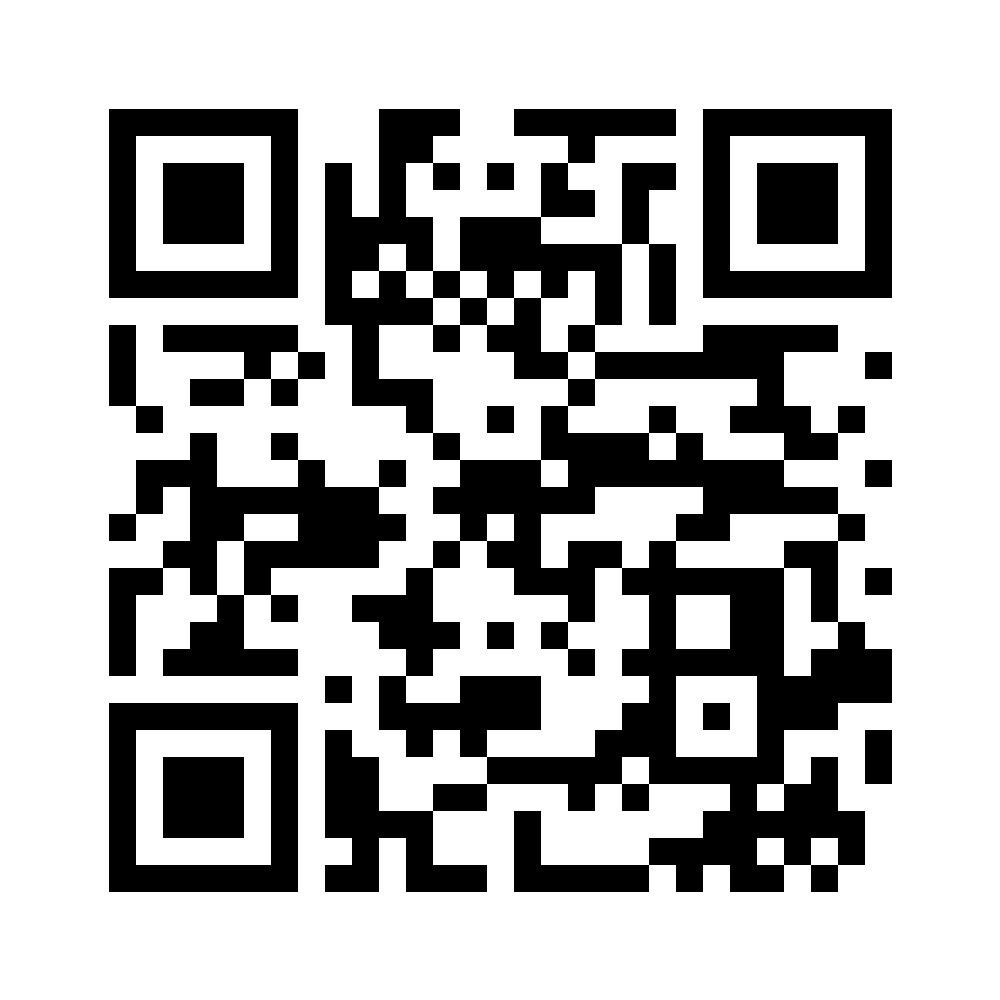
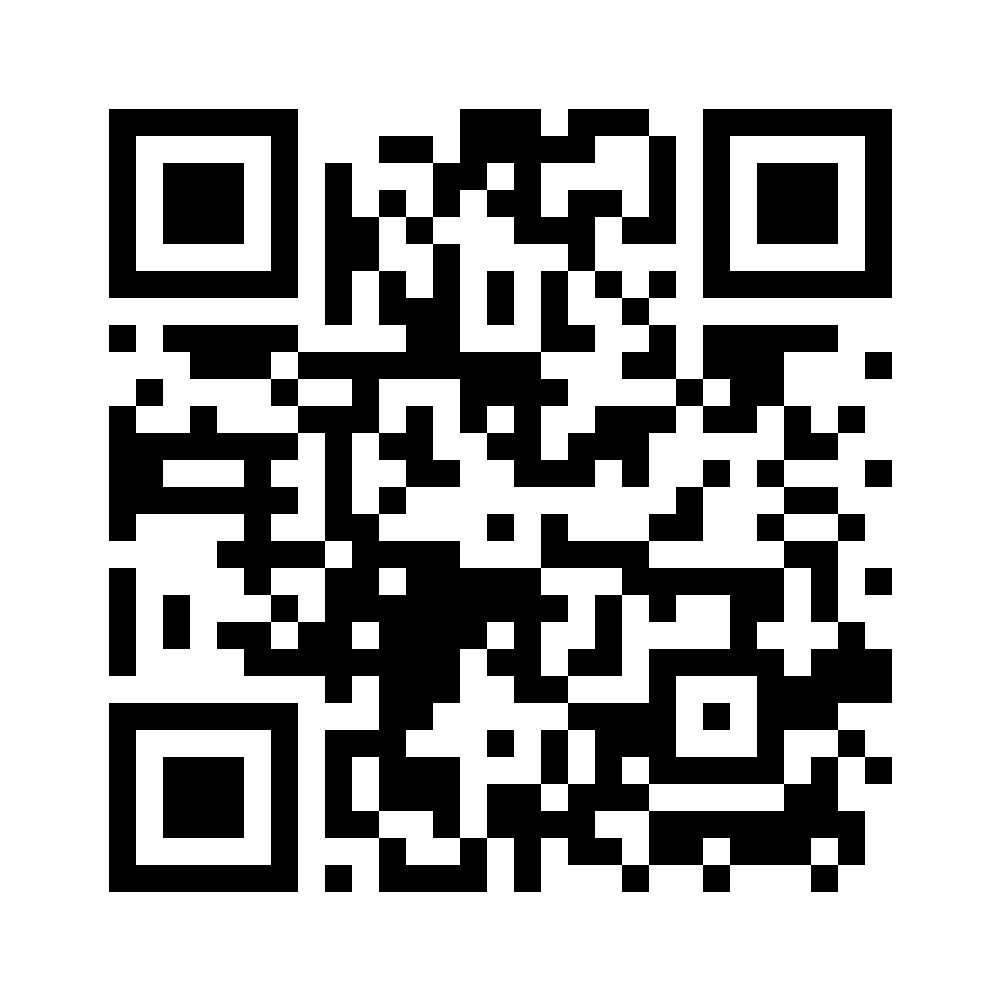
prepare for deployment, regen QR codes

diff --git a/README.md b/README.md
@@ -19,7 +19,7 @@ npm run preview    # просмотр сборки
 
 ```json
 {
-  "siteUrl": "https://guide.example.org",
+  "siteUrl": "https://imb-special.ru",
   "ambient": "audio/ambient.wav",
   "ambientVolume": 0.22,
   "tracks": [
@@ -49,6 +49,43 @@ npm run preview    # просмотр сборки
 ## QR-коды
 
 `npm run qr` генерирует PNG для всех треков по адресу `siteUrl` и предупреждает об отсутствующих аудио и обложках. Встроенный сканер принимает только ссылки с адреса `siteUrl` или с текущего адреса страницы.
+
+## Деплой под https (imb-special.ru)
+
+Два контейнера в `docker-compose.yml`:
+- `guide` — nginx без root-прав, раздаёт собранный сайт. Слушает только `127.0.0.1:3300`, снаружи по голому http его не достать.
+- `caddy` — сам получает и продлевает сертификат Let's Encrypt, редиректит http → https, сжимает JS/CSS/JSON и WebAssembly сканера (947 → 424 КБ).
+
+Папка `public/` подключена в контейнер с сервера. Правки `config.json`, аудио, обложек и QR видны сразу, без пересборки образа. Пересобирать нужно только после изменений в коде (`src/`, `index.html`).
+
+1. Направить A-запись `imb-special.ru` на сервер. Открыть на фаерволе 80 и 443.
+2. Поднять приложение:
+
+   ```bash
+   git clone <repo> audioguide && cd audioguide
+   cp .env.example .env              # GUIDE_DOMAIN=imb-special.ru
+   docker compose up -d --build
+   curl -s localhost:3300/health     # ok
+   ```
+
+3. Проверить `https://imb-special.ru`. Сертификат выпускается при первом запуске, это занимает несколько секунд. После проверки можно включить HSTS: раскомментировать строку в `deploy/Caddyfile` и выполнить `docker compose restart caddy`.
+
+`siteUrl` в `public/config.json` должен совпадать с доменом: из него строятся QR-коды. Сейчас там `https://imb-special.ru`, коды в `public/qr/` сгенерированы под него. Если домен поменяется, исправьте `siteUrl` и выполните `npm run qr`, а напечатанные коды перепечатайте.
+
+**Если на сервере уже есть nginx на 80/443**, Caddy не нужен. Запустите только приложение командой `docker compose up -d --build guide`. Затем выпустите сертификат командой `certbot --nginx -d imb-special.ru` и подключите `deploy/nginx.conf` в `sites-enabled`.
+
+Логи и состояние:
+
+```bash
+docker compose ps                 # healthcheck раз в 30 секунд ходит в /health
+docker compose logs -f caddy      # выпуск сертификата и ошибки TLS
+docker compose logs -f guide      # запросы к файлам
+```
+
+Как отдаётся контент:
+- файлы сборки (`/assets/*`, в имени хеш) кэшируются навсегда;
+- `config.json`, аудио, обложки и QR каждый раз сверяются с сервером по ETag: правки доходят до посетителей сразу, а неизменённые файлы отвечают коротким 304;
+- аудио отдаётся частями (HTTP Range) — без этого не работает перемотка в Safari.
 
 ## Материалы
 

diff --git a/CLAUDE.md b/CLAUDE.md
@@ -15,6 +15,8 @@ npm run preview
 npm run qr        # regenerate public/qr/*.png from public/config.json
 ```
 
+Production: `docker compose up -d --build` (needs `.env` with `GUIDE_DOMAIN`, see `.env.example`; domain imb-special.ru). `guide` = `nginxinc/nginx-unprivileged` serving `dist/` with `deploy/static.conf`; `public/` is bind-mounted read-only to `/srv/content` and served first, so content edits on the server need no rebuild; `/assets/*` immutable, everything else `no-cache` (ETag); `/health` for the healthcheck. `caddy` terminates TLS (`deploy/Caddyfile`, Let's Encrypt, zstd/gzip incl. wasm); `deploy/nginx.conf` is the host-nginx alternative to the Caddy service.
+
 No automated tests. The live camera scanner needs a secure context (HTTPS or localhost).
 
 ## Architecture
